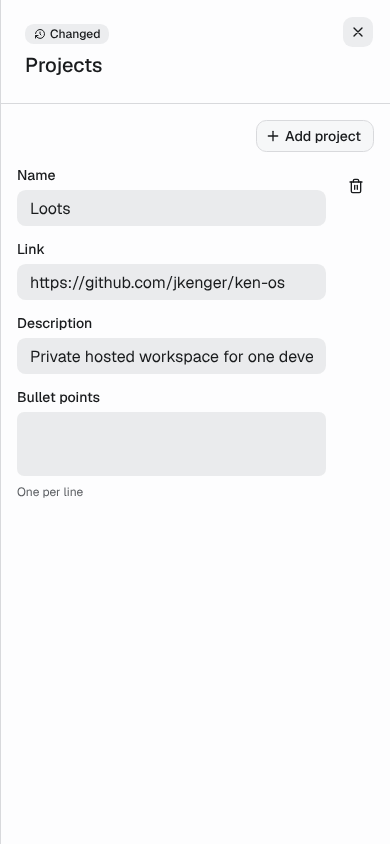
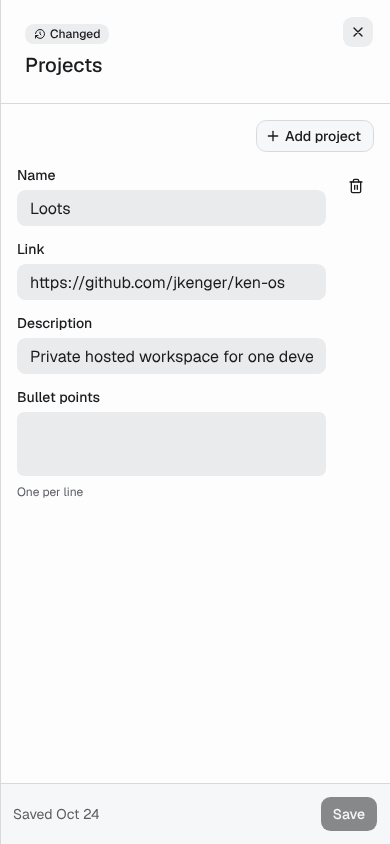
Keep Save in the section sheet and count emptied sections
Below 1280px the section editor is a sheet over the page's Save bar, so
it now carries the same Save and Discard. A section emptied since the
live Publish shows Changed instead of Empty, and the public resume bar
counts sections a Publish would change from the saved Profile, not from
each row's display state. The sheet description is a label now.

Claude-Session: https://claude.ai/code/session_01X7a8fG9bLdnrKKphzPaoj1

Changed region(s): [[0.8, 0.9242, 0.9846, 0.9858], [0.0308, 0.955, 0.2462, 0.9858]]

diff --git a/apps/web/src/components/profile/profile-workspace.tsx b/apps/web/src/components/profile/profile-workspace.tsx
@@ -149,6 +149,22 @@ export function ProfileWorkspace({
     }
   }
 
+  const saveBar = (
+    <div className="flex items-center justify-end gap-2 px-3 py-3 md:px-5">
+      <span className="mr-auto text-sm text-muted-foreground">
+        {changed || review ? "Unsaved changes" : savedAt ? `Saved ${shortDate(savedAt)}` : "Not saved"}
+      </span>
+      {(changed || review) && (
+        <Button type="button" variant="ghost" onClick={discard} disabled={saving}>
+          Discard
+        </Button>
+      )}
+      <Button type="button" onClick={save} disabled={saving || !canSave}>
+        {saving ? "Saving…" : "Save"}
+      </Button>
+    </div>
+  );
+
   return (
     <WorkspaceShell email={email} active="profile">
       <div className="flex min-w-0 items-start">
@@ -185,7 +201,7 @@ export function ProfileWorkspace({
                 </Alert>
               )}
 
-              <PublicResumeBar live={published.live} changed={rows.filter((row) => row.state === "changed").length} />
+              <PublicResumeBar live={published.live} changed={rows.filter((row) => row.publishChanges).length} />
               <LedgerList rows={rows} opened={opened} onOpen={setOpened} />
               <ResumeFiles initial={resumes} />
               {engineering?.map((line) => (
@@ -204,26 +220,16 @@ export function ProfileWorkspace({
           closeLabel="Close section"
           badges={openRow && <StateBadge state={openRow.state} />}
           title={openRow?.title ?? ""}
-          descriptionFallback="Edit this section. Save keeps it"
+          descriptionFallback="Section details"
         >
           <DetailsForm key={formVersion} details={details} edit={edit} only={opened} />
+          {/* As a sheet the panel covers the page's Save bar, so it carries its own. */}
+          {!docked && <div className="sticky bottom-0 mt-auto border-t bg-background">{saveBar}</div>}
         </DockedPanel>
       </div>
 
       <div className="sticky bottom-0 z-10 border-t bg-background/95 backdrop-blur">
-        <div className="mx-auto flex max-w-5xl items-center justify-end gap-2 px-3 py-3 md:px-5">
-          <span className="mr-auto text-sm text-muted-foreground">
-            {changed || review ? "Unsaved changes" : savedAt ? `Saved ${shortDate(savedAt)}` : "Not saved"}
-          </span>
-          {(changed || review) && (
-            <Button type="button" variant="ghost" onClick={discard} disabled={saving}>
-              Discard
-            </Button>
-          )}
-          <Button type="button" onClick={save} disabled={saving || !canSave}>
-            {saving ? "Saving…" : "Save"}
-          </Button>
-        </div>
+        <div className="mx-auto max-w-5xl">{saveBar}</div>
       </div>
     </WorkspaceShell>
   );

diff --git a/apps/web/src/features/profile/ledger.ts b/apps/web/src/features/profile/ledger.ts
@@ -27,6 +27,8 @@ export interface LedgerRow {
   /** A one-line glimpse of what is there; empty when nothing is. */
   glimpse: string;
   state: LedgerState;
+  /** Whether a Publish of the saved Profile would change this section on the public resume, whatever the row shows. */
+  publishChanges: boolean;
 }
 
 type PublicPart = (profile: PortfolioProfile) => unknown;
@@ -148,12 +150,14 @@ export function ledgerRows(
   return SECTIONS.map(({ id, title, count, glimpse, publicPart }) => {
     const filled = count(details);
     const key = id === "local-fields" ? "local" : id;
+    const publishChanges = Boolean(publicPart && published && !same(publicPart(next), publicPart(published)));
     let state: LedgerState;
     if (!same(details[key], saved[key])) state = "unsaved";
+    // Before Empty: a section emptied since the Publish still changes the public resume.
+    else if (publishChanges) state = "changed";
     else if (!filled) state = "empty";
     else if (!publicPart) state = "private";
-    else if (!published) state = "not-published";
-    else state = same(publicPart(next), publicPart(published)) ? "published" : "changed";
-    return { id, title, count: filled, glimpse: glimpse(details), state };
+    else state = published ? "published" : "not-published";
+    return { id, title, count: filled, glimpse: glimpse(details), state, publishChanges };
   });
 }

diff --git a/apps/web/src/features/profile/ledger.test.ts b/apps/web/src/features/profile/ledger.test.ts
@@ -55,3 +55,16 @@ test("Show email turned on changes Contact, local fields stay private", () => {
   assert.equal(stateOf(rows, "contact"), "changed");
   assert.equal(stateOf(rows, "local-fields"), "private");
 });
+
+test("a section emptied since the Publish is Changed and still counted while being edited", () => {
+  const before = saved();
+  const published = portfolioProfile(before, hidden);
+  const after = saved();
+  after.projects = [];
+  assert.equal(stateOf(ledgerRows(after, after, published, hidden), "projects"), "changed");
+  const typed = structuredClone(after);
+  typed.projects = [{ name: "New", link: "", description: "", bullets: [] }];
+  const row = ledgerRows(typed, after, published, hidden).find((item) => item.id === "projects");
+  assert.equal(row?.state, "unsaved");
+  assert.equal(row?.publishChanges, true);
+});
